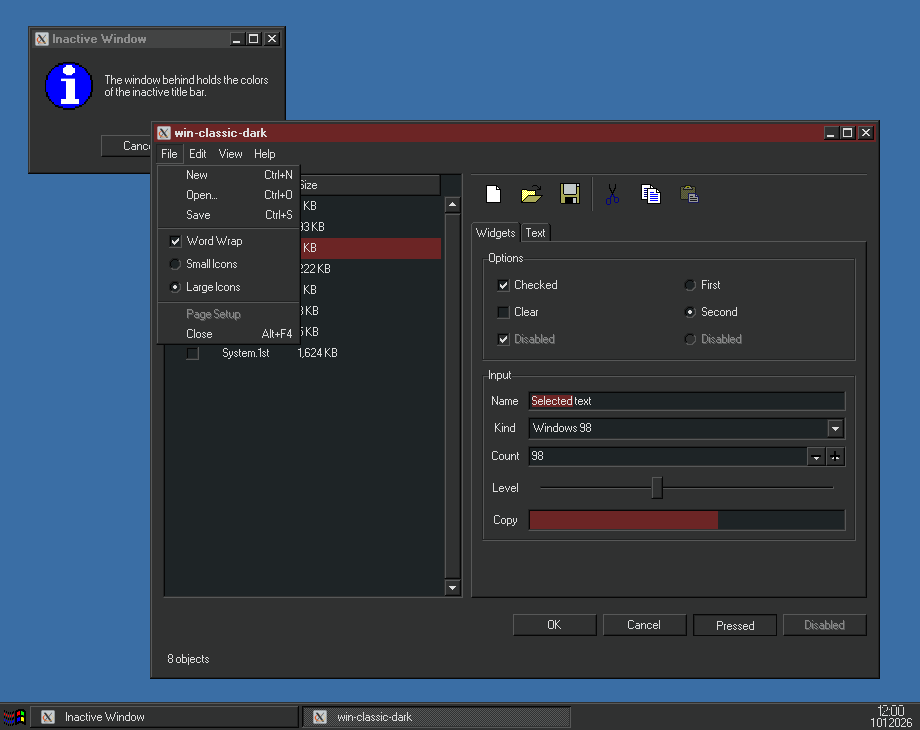
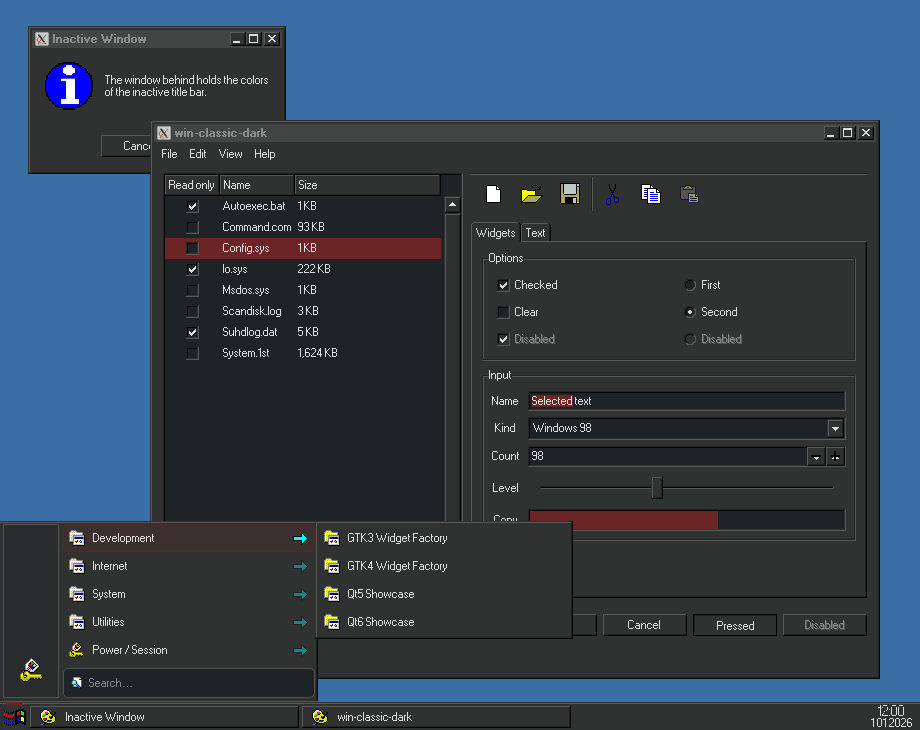
Show the open launcher menu in the Plasma screenshot
The panel holds the Application Menu, which opens its categories in
submenus. The script writes a desktop entry for each program of the
screenshots, opens the menu and then its first category. The showcase
opens no menu of its own with SHOWCASE_NO_MENU.

diff --git a/dev/showcase.c b/dev/showcase.c
@@ -5,7 +5,7 @@
  * The program writes the file in READY_FILE when the windows are on the screen
  * and the first menu is open. The script waits for that file. Without
  * READY_FILE the program is a plain preview: it opens no menu and writes
- * nothing.
+ * nothing. With SHOWCASE_NO_MENU it writes the file and opens no menu.
  */
 
 #include <gtk/gtk.h>
@@ -25,7 +25,8 @@ on_settled (gpointer data)
   if (path == NULL)
     return G_SOURCE_REMOVE;
 
-  gtk_menu_shell_select_item (GTK_MENU_SHELL (menu_bar), file_item);
+  if (g_getenv ("SHOWCASE_NO_MENU") == NULL)
+    gtk_menu_shell_select_item (GTK_MENU_SHELL (menu_bar), file_item);
 
   file = fopen (path, "w");
   if (file == NULL)

diff --git a/DEVELOPMENT.md b/DEVELOPMENT.md
@@ -147,6 +147,11 @@ panel with the Plasma style of the theme. The script sets the fonts and the
 icon theme of the other screenshots in `kdeglobals`. The panel at the bottom
 holds the application launcher, the task manager and the clock. A look and feel
 package that the script writes gives that layout and the color of the desktop.
+The launcher is the Application Menu, which opens its categories in submenus
+as Windows does. The script writes a desktop entry for each program of the
+screenshots, opens the menu and then the first category. `launcher_x`,
+`launcher_y`, `category_x` and `category_y` in `dev/screenshot.sh` give the
+places of the clicks. The showcase opens no menu of its own in this screenshot.
 libfaketime stops the clock at one time, thus each build gives the same pixels.
 Plasma starts services on the session bus, so this screenshot has a bus of its
 own. `plasma` in `dev/screenshots.nix` holds the packages of Plasma.
